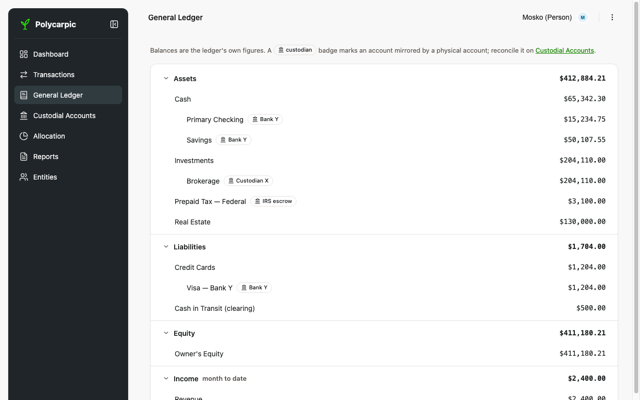
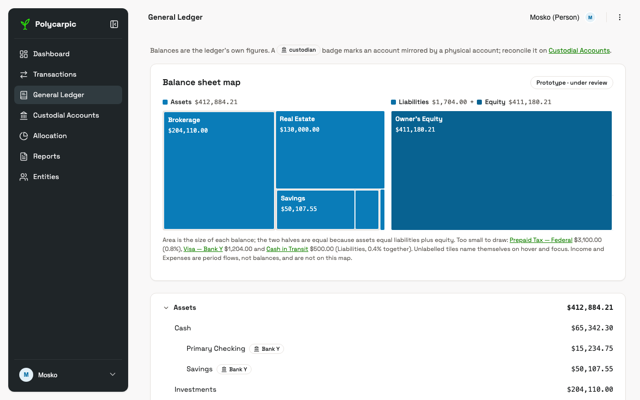
design(flows-refine): balance-sheet treemap prototype on General Ledger
A nested treemap card above the chart-of-accounts tree: Assets | Liabilities
+ Equity as equal halves, area = |balance|, fill by element on chart-3/4/5
with AA-safe --card ink, labels clipped by container query. Spec records
what works, what does not (tiny accounts, contra balances, negative equity,
flows vs balances) and recommends a scoped go. Thumbnail re-rendered.

Claude-Session: https://claude.ai/code/session_01ShccjGpngWMgusX4atqtRi

diff --git a/docs/DESIGN/styled-screens/general-ledger.html b/docs/DESIGN/styled-screens/general-ledger.html
@@ -8,7 +8,7 @@
 <link rel="stylesheet" href="../screen.css">
 </head>
 <body>
-<!-- General Ledger (pass 7; styled pass 13). Chart-of-accounts tree, the accounting abstraction. Each account opens its own register page. The custodial badge is a cross-reference only: the balance shown is always the GL's own figure, and not every GL account has a custodial counterpart (Owner's Equity, Cash in Transit). More menu: Export. -->
+<!-- General Ledger. Chart-of-accounts tree, the accounting abstraction. Above it, a PROTOTYPE balance-sheet treemap (design-system-spec.md § General Ledger: tree & register → Treemap prototype): two equal halves, Assets | Liabilities + Equity, nested category → account → sub-account, area = |balance|, fill = --chart-3 / --chart-4 / --chart-5 by element; static layout from a squarified pass, every tile links to its register. Each account opens its own register page. The custodial badge is a cross-reference only: the balance shown is always the GL's own figure, and not every GL account has a custodial counterpart (Owner's Equity, Cash in Transit). More menu: Export. -->
 <div class="shell">
   <aside class="sidebar" id="app-sidebar">
     <!-- Brand row (pass 12, Gemini pattern): expanded = logo + wordmark,
@@ -57,6 +57,30 @@
 
   <main class="content" style="padding-top:8px;">
     <p class="card-sub" style="margin-bottom:16px;">Balances are the ledger's own figures. A <span class="badge badge-outline badge-sm"><span class="icon"><svg viewBox="0 0 24 24" fill="none" stroke="currentColor" stroke-width="2" stroke-linecap="round" stroke-linejoin="round"><line x1="3" x2="21" y1="22" y2="22"/><line x1="6" x2="6" y1="18" y2="11"/><line x1="10" x2="10" y1="18" y2="11"/><line x1="14" x2="14" y1="18" y2="11"/><line x1="18" x2="18" y1="18" y2="11"/><polygon points="12 2 20 7 4 7"/></svg></span>custodian</span> badge marks an account mirrored by a physical account; reconcile it on <a href="custodial-accounts.html" style="color:var(--primary);">Custodial Accounts</a>.</p>
+    <div class="card tm-card" aria-labelledby="tm-title">
+      <div class="card-head">
+        <span class="card-title" id="tm-title">Balance sheet map</span>
+        <span class="badge badge-outline">Prototype · under review</span>
+      </div>
+      <div class="tm-cols" aria-hidden="true">
+        <span><span class="tm-swatch tm-assets"></span>Assets <span class="mono">$412,884.21</span></span>
+        <span><span class="tm-swatch tm-liabilities"></span>Liabilities <span class="mono">$1,704.00</span> <span class="tm-plus">+</span> <span class="tm-swatch tm-equity"></span>Equity <span class="mono">$411,180.21</span></span>
+      </div>
+      <div class="tm-map" role="group" aria-label="Balance sheet treemap: Assets $412,884.21 on the left; Liabilities $1,704.00 and Equity $411,180.21 on the right">
+        <span class="tm-group" style="left:0.00%;top:0.00%;width:25.01%;height:100.00%" aria-hidden="true"></span>
+        <a class="tm-tile tm-assets" href="account-register.html" style="left:0.22%;top:0.83%;width:24.57%;height:98.33%" title="Assets › Investments › Brokerage: $204,110.00" aria-label="Assets › Investments › Brokerage: $204,110.00"><span class="tm-inner"><span class="tm-label">Brokerage</span><span class="tm-value">$204,110.00</span></span></a>
+        <a class="tm-tile tm-assets" href="account-register.html" style="left:25.01%;top:0.00%;width:24.32%;height:65.51%" title="Assets › Real Estate: $130,000.00" aria-label="Assets › Real Estate: $130,000.00"><span class="tm-inner"><span class="tm-label">Real Estate</span><span class="tm-value">$130,000.00</span></span></a>
+        <span class="tm-group" style="left:25.01%;top:65.51%;width:23.22%;height:34.49%" aria-hidden="true"></span>
+        <a class="tm-tile tm-assets" href="account-register.html" style="left:25.24%;top:66.34%;width:17.46%;height:32.82%" title="Assets › Cash › Savings: $50,107.55" aria-label="Assets › Cash › Savings: $50,107.55"><span class="tm-inner"><span class="tm-label">Savings</span><span class="tm-value">$50,107.55</span></span></a>
+        <a class="tm-tile tm-assets" href="account-register.html" style="left:42.70%;top:66.34%;width:5.31%;height:32.82%" title="Assets › Cash › Primary Checking: $15,234.75" aria-label="Assets › Cash › Primary Checking: $15,234.75"><span class="tm-inner"><span class="tm-label">Primary Checking</span><span class="tm-value">$15,234.75</span></span></a>
+        <a class="tm-tile tm-assets" href="account-register.html" style="left:48.23%;top:65.51%;width:1.10%;height:34.49%" title="Assets › Prepaid Tax — Federal: $3,100.00" aria-label="Assets › Prepaid Tax — Federal: $3,100.00"><span class="tm-inner"><span class="tm-label">Prepaid Tax — Federal</span><span class="tm-value">$3,100.00</span></span></a>
+        <a class="tm-tile tm-equity" href="account-register.html" style="left:50.67%;top:0.00%;width:49.13%;height:100.00%" title="Equity › Owner&#x27;s Equity: $411,180.21" aria-label="Equity › Owner&#x27;s Equity: $411,180.21"><span class="tm-inner"><span class="tm-label">Owner&#x27;s Equity</span><span class="tm-value">$411,180.21</span></span></a>
+        <span class="tm-group" style="left:99.80%;top:0.00%;width:0.20%;height:70.66%" aria-hidden="true"></span>
+        <a class="tm-tile tm-liabilities" href="account-register.html" style="left:99.80%;top:0.00%;width:0.20%;height:70.66%" title="Liabilities › Credit Cards › Visa — Bank Y: $1,204.00" aria-label="Liabilities › Credit Cards › Visa — Bank Y: $1,204.00"><span class="tm-inner"><span class="tm-label">Visa — Bank Y</span><span class="tm-value">$1,204.00</span></span></a>
+        <a class="tm-tile tm-liabilities" href="account-register.html" style="left:99.80%;top:70.66%;width:0.20%;height:29.34%" title="Liabilities › Cash in Transit (clearing): $500.00" aria-label="Liabilities › Cash in Transit (clearing): $500.00"><span class="tm-inner"><span class="tm-label">Cash in Transit (clearing)</span><span class="tm-value">$500.00</span></span></a>
+      </div>
+      <p class="tm-note">Area is the size of each balance; the two halves are equal because assets equal liabilities plus equity. Too small to draw: <a href="account-register.html">Prepaid Tax — Federal</a> $3,100.00 (0.8%), <a href="account-register.html">Visa — Bank Y</a> $1,204.00 and <a href="account-register.html">Cash in Transit</a> $500.00 (Liabilities, 0.4% together). Unlabelled tiles name themselves on hover and focus. Income and Expenses are period flows, not balances, and are not on this map.</p>
+    </div>
     <div class="card" style="padding:0;">
       <div class="gl-tree" role="tree" aria-label="Chart of accounts">
           <div class="tree-row depth-0"><span class="tree-name"><span class="tree-chevron"><span class="icon icon-sm"><svg viewBox="0 0 24 24" fill="none" stroke="currentColor" stroke-width="2" stroke-linecap="round" stroke-linejoin="round"><path d="m6 9 6 6 6-6"/></svg></span></span>Assets</span><span class="tree-balance">$412,884.21</span></div>

diff --git a/docs/DESIGN/screen.css b/docs/DESIGN/screen.css
@@ -1523,3 +1523,39 @@ table.data-table tr.opening td { color: var(--muted-foreground); font-style: ita
   .alloc-row { grid-template-columns: 120px 1fr 120px 96px; gap: 12px; }
   .form-row { grid-template-columns: 1fr 160px auto; }
 }
+
+/* ---------- Balance-sheet treemap (PROTOTYPE on general-ledger.html).
+   Two equal halves, Assets | Liabilities + Equity: the accounting
+   equation makes their areas equal. Tiles are absolutely positioned by
+   percentage (the prototype's layout is one static squarified pass at
+   900x240; the real LayerChart Treemap re-lays out on resize). Fill by
+   accounting element from the chart ramp's three AA-safe steps for a
+   --card-ink label: chart-3 4.58:1, chart-4 5.48:1, chart-5 6.63:1 on
+   white in light mode; dark mode inverts (light ramp, dark ink). Labels
+   clip by container query: value hidden under 96x38, label under 64x22.
+   Colour is never alone: every tile carries its name (or a title/aria
+   label when too small), and the halves are captioned above. Padding
+   sits on .tm-inner, never on the tile, so a sub-pixel tile stays
+   sub-pixel instead of growing to the padding's width. */
+.tm-cols { display: grid; grid-template-columns: 1fr 1fr; gap: 12px; margin: 4px 0 8px; font-size: 13px; font-weight: 500; }
+.tm-cols > span { display: flex; align-items: center; gap: 6px; flex-wrap: wrap; }
+.tm-cols .mono { color: var(--muted-foreground); font-weight: 400; }
+.tm-plus { color: var(--muted-foreground); }
+.tm-swatch { width: 10px; height: 10px; border-radius: 2px; display: inline-block; }
+.tm-map { position: relative; height: 240px; }
+.tm-group { position: absolute; background: var(--border); border-radius: 4px; }
+.tm-tile { position: absolute; box-sizing: border-box; border: 1px solid var(--card); border-radius: 3px; overflow: hidden; container-type: size; text-decoration: none; color: var(--card); }
+.tm-inner { display: flex; flex-direction: column; gap: 2px; padding: 6px 8px; min-width: 0; }
+.tm-tile:hover { filter: brightness(1.08); }
+.tm-tile:focus-visible { outline: 2px solid var(--ring); outline-offset: 1px; z-index: 1; }
+.tm-label { font-size: 13px; font-weight: 600; white-space: nowrap; overflow: hidden; text-overflow: ellipsis; }
+.tm-value { font-family: var(--font-mono); font-variant-numeric: tabular-nums; font-size: 12px; white-space: nowrap; }
+@container (max-width: 96px) { .tm-value { display: none; } }
+@container (max-height: 38px) { .tm-value { display: none; } }
+@container (max-width: 64px) { .tm-label { display: none; } }
+@container (max-height: 22px) { .tm-label { display: none; } }
+.tm-assets { background: var(--chart-3); }
+.tm-liabilities { background: var(--chart-4); }
+.tm-equity { background: var(--chart-5); }
+.tm-note { margin-top: 10px; font-size: 12px; color: var(--muted-foreground); line-height: 1.5; }
+.tm-note a { color: var(--primary); }
